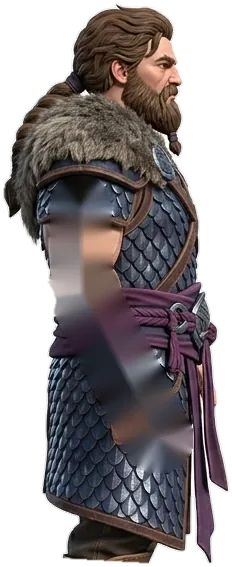
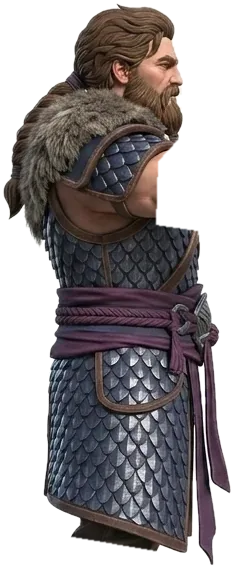
Use new arms-forward art for Veer and Chhotu
Arms no longer cover the torso, so the chest is clean and no
filled-in blur is needed.

Claude-Session: https://claude.ai/code/session_011E851gYzjX1dQKXb2gdVBB

diff --git a/ladai/index.html b/ladai/index.html
@@ -110,7 +110,7 @@ const EMPTY={l:0,r:0,u:0,d:0,pP:0,pK:0,pS:0,hold:0};
 
 /* ================= Fighters ================= */
 function shade(hex,k){const n=parseInt(hex.slice(1),16);return 'rgb('+(((n>>16)&255)*k|0)+','+(((n>>8)&255)*k|0)+','+((n&255)*k|0)+')';}
-const RIG={"kekda":{"name":"kekda","hip":[390,440],"neck":[415,178],"armF":[[262,228],[232,320],[215,562]],"armB":[[482,255],[522,372],[565,497]],"armBcopy":false,"legF":[[345,440],[338,575],[335,690],[400,728]],"legB":[[430,440],[428,575],[425,682],[505,706]],"legBcopy":false,"parts":{"armF0":{"box":{"x":166,"y":178,"w":137,"h":159}},"armF1":{"box":{"x":142,"y":313,"w":161,"h":306}},"armB0":{"box":{"x":489,"y":283,"w":61,"h":103}},"armB1":{"box":{"x":488,"y":361,"w":106,"h":143}},"legF0":{"box":{"x":281,"y":497,"w":116,"h":84}},"legF1":{"box":{"x":278,"y":571,"w":149,"h":168}},"legB0":{"box":{"x":387,"y":497,"w":94,"h":82}},"legB1":{"box":{"x":389,"y":572,"w":121,"h":145}},"body":{"box":{"x":206,"y":25,"w":295,"h":506}}},"top":23,"bottom":735},"veer":{"name":"veer","hip":[555,505],"neck":[585,150],"armF":[[525,215],[527,300],[603,447]],"armB":[[525,215],[527,300],[603,447]],"armBcopy":true,"legF":[[555,510],[552,612],[555,692],[652,705]],"legB":[[555,510],[552,612],[555,692],[652,705]],"legBcopy":true,"parts":{"armF0":{"box":{"x":489,"y":179,"w":81,"h":138}},"armF1":{"box":{"x":495,"y":288,"w":151,"h":202}},"legF0":{"box":{"x":499,"y":545,"w":104,"h":72}},"legF1":{"box":{"x":500,"y":609,"w":155,"h":137}},"body":{"box":{"x":445,"y":9,"w":233,"h":567}}},"top":12,"bottom":743},"tara":{"name":"tara","hip":[285,405],"neck":[295,150],"armF":[[225,186],[211,282],[220,402]],"armB":[[330,192],[356,292],[383,394]],"armBcopy":false,"legF":[[256,412],[246,562],[241,690],[306,737]],"legB":[[310,412],[302,562],[300,680],[372,712]],"legBcopy":false,"parts":{"armF0":{"box":{"x":184,"y":161,"w":65,"h":126}},"armF1":{"box":{"x":185,"y":280,"w":67,"h":156}},"armB0":{"box":{"x":331,"y":164,"w":35,"h":133}},"armB1":{"box":{"x":349,"y":288,"w":55,"h":120}},"legF0":{"box":{"x":216,"y":417,"w":79,"h":150}},"legF1":{"box":{"x":204,"y":558,"w":121,"h":190}},"legB0":{"box":{"x":280,"y":417,"w":67,"h":149}},"legB1":{"box":{"x":277,"y":559,"w":101,"h":166}},"body":{"box":{"x":205,"y":23,"w":153,"h":411}}},"top":26,"bottom":744},"chhotu":{"name":"chhotu","hip":[200,450],"neck":[215,182],"armF":[[185,225],[168,335],[195,450]],"armB":[[185,225],[168,335],[195,450]],"armBcopy":true,"legF":[[195,450],[185,600],[182,692],[248,722]],"legB":[[195,450],[185,600],[182,692],[248,722]],"legBcopy":true,"parts":{"armF0":{"box":{"x":141,"y":198,"w":72,"h":146}},"armF1":{"box":{"x":141,"y":332,"w":81,"h":145}},"legF0":{"box":{"x":145,"y":517,"w":87,"h":88}},"legF1":{"box":{"x":145,"y":596,"w":127,"h":147}},"body":{"box":{"x":126,"y":34,"w":144,"h":500}}},"top":37,"bottom":739}};
+const RIG={"kekda":{"name":"kekda","hip":[390,440],"neck":[415,178],"armF":[[262,228],[232,320],[215,562]],"armB":[[482,255],[522,372],[565,497]],"armBcopy":false,"legF":[[345,440],[338,575],[335,690],[400,728]],"legB":[[430,440],[428,575],[425,682],[505,706]],"legBcopy":false,"parts":{"armF0":{"box":{"x":166,"y":178,"w":137,"h":159}},"armF1":{"box":{"x":142,"y":313,"w":161,"h":306}},"armB0":{"box":{"x":489,"y":283,"w":61,"h":103}},"armB1":{"box":{"x":488,"y":361,"w":106,"h":143}},"legF0":{"box":{"x":283,"y":497,"w":114,"h":84}},"legF1":{"box":{"x":278,"y":571,"w":149,"h":168}},"legB0":{"box":{"x":387,"y":497,"w":94,"h":82}},"legB1":{"box":{"x":389,"y":572,"w":121,"h":145}},"body":{"box":{"x":206,"y":25,"w":295,"h":506}}},"top":23,"bottom":735},"veer":{"name":"veer","hip":[430,520],"neck":[452,150],"armF":[[468,190],[526,190],[718,184]],"armB":[[468,190],[526,190],[718,184]],"armBcopy":true,"legF":[[430,525],[426,605],[432,690],[522,702]],"legB":[[430,525],[426,605],[432,690],[522,702]],"legBcopy":true,"parts":{"armF0":{"box":{"x":468,"y":152,"w":63,"h":77}},"armF1":{"box":{"x":523,"y":149,"w":204,"h":80}},"legF0":{"box":{"x":370,"y":545,"w":108,"h":67}},"legF1":{"box":{"x":371,"y":602,"w":156,"h":147}},"body":{"box":{"x":315,"y":11,"w":234,"h":568}}},"top":14,"bottom":748},"tara":{"name":"tara","hip":[285,405],"neck":[295,150],"armF":[[225,186],[211,282],[220,402]],"armB":[[330,192],[356,292],[383,394]],"armBcopy":false,"legF":[[256,412],[246,562],[241,690],[306,737]],"legB":[[310,412],[302,562],[300,680],[372,712]],"legBcopy":false,"parts":{"armF0":{"box":{"x":184,"y":161,"w":65,"h":126}},"armF1":{"box":{"x":185,"y":280,"w":67,"h":156}},"armB0":{"box":{"x":331,"y":164,"w":35,"h":133}},"armB1":{"box":{"x":349,"y":288,"w":55,"h":120}},"legF0":{"box":{"x":216,"y":417,"w":79,"h":150}},"legF1":{"box":{"x":204,"y":558,"w":118,"h":190}},"legB0":{"box":{"x":280,"y":417,"w":67,"h":149}},"legB1":{"box":{"x":277,"y":559,"w":101,"h":166}},"body":{"box":{"x":205,"y":23,"w":153,"h":411}}},"top":26,"bottom":744},"chhotu":{"name":"chhotu","hip":[295,480],"neck":[296,176],"armF":[[305,214],[402,214],[556,206]],"armB":[[305,214],[402,214],[556,206]],"armBcopy":true,"legF":[[296,482],[296,602],[300,686],[363,712]],"legB":[[296,482],[296,602],[300,686],[363,712]],"legBcopy":true,"parts":{"armF0":{"box":{"x":326,"y":184,"w":81,"h":63}},"armF1":{"box":{"x":399,"y":183,"w":161,"h":64}},"legF0":{"box":{"x":252,"y":512,"w":89,"h":95}},"legF1":{"box":{"x":252,"y":599,"w":118,"h":138}},"body":{"box":{"x":243,"y":31,"w":129,"h":501}}},"top":34,"bottom":733}};
 const IMG={};
 function loadRig(n){const r=RIG[n];for(const k in r.parts){for(const v of ['','_d']){const im=new Image();im.src='img/'+n+'_'+k+v+'.webp';IMG[n+'_'+k+v]=im;}}}
 const CH=[

diff --git a/ladai/sw.js b/ladai/sw.js
@@ -1,4 +1,4 @@
-const CACHE='takkar-v3';
+const CACHE='takkar-v4';
 const FILES=['./','./index.html','./manifest.webmanifest','./icon-192.png','./icon-512.png','./icon-180.png'];
 self.addEventListener('install',e=>{e.waitUntil(caches.open(CACHE).then(c=>c.addAll(FILES)).then(()=>self.skipWaiting()));});
 self.addEventListener('activate',e=>{e.waitUntil(caches.keys().then(ks=>Promise.all(ks.filter(k=>k!==CACHE).map(k=>caches.delete(k)))).then(()=>self.clients.claim()));});
